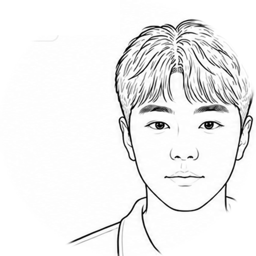
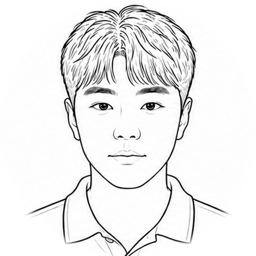
feat(studio): center male face examples on the nose and enlarge upload circle
Re-crop the male patent line-art so the nose sits at the circle center
(shifted left from the prior right-of-center framing) and grow the
upload-slot circle (80/112/144px) so the example reads more clearly.

diff --git a/apps/web/src/components/mirilook-studio.tsx b/apps/web/src/components/mirilook-studio.tsx
@@ -5806,7 +5806,7 @@ function UploadBox({
         </div>
       ) : (
         <div className="flex h-full flex-col items-center justify-center gap-1.5 p-1.5 text-center sm:gap-2 sm:p-3 lg:gap-4 lg:p-5">
-          <span className="relative flex size-16 items-center justify-center overflow-hidden rounded-full border border-[#c9a96a]/60 bg-white text-[#f3d28a] shadow-[0_0_0_3px_rgba(201,169,106,0.16)] sm:size-24 lg:size-28">
+          <span className="relative flex size-20 items-center justify-center overflow-hidden rounded-full border border-[#c9a96a]/60 bg-white text-[#f3d28a] shadow-[0_0_0_3px_rgba(201,169,106,0.16)] sm:size-28 lg:size-36">
             <img
               alt={`${label} 예시`}
               aria-hidden="true"
